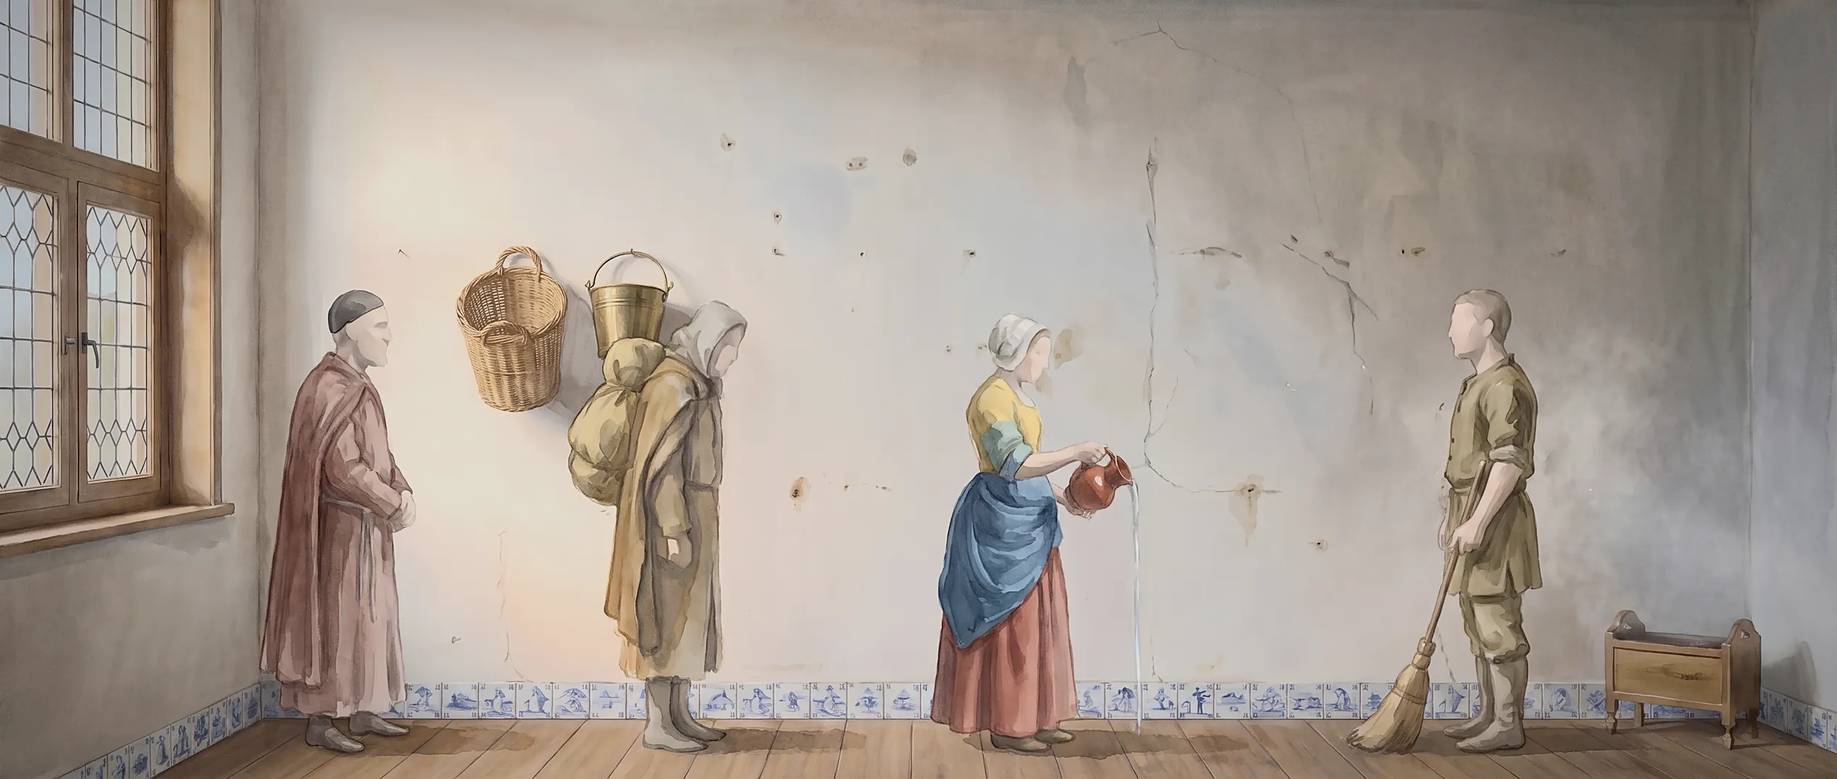
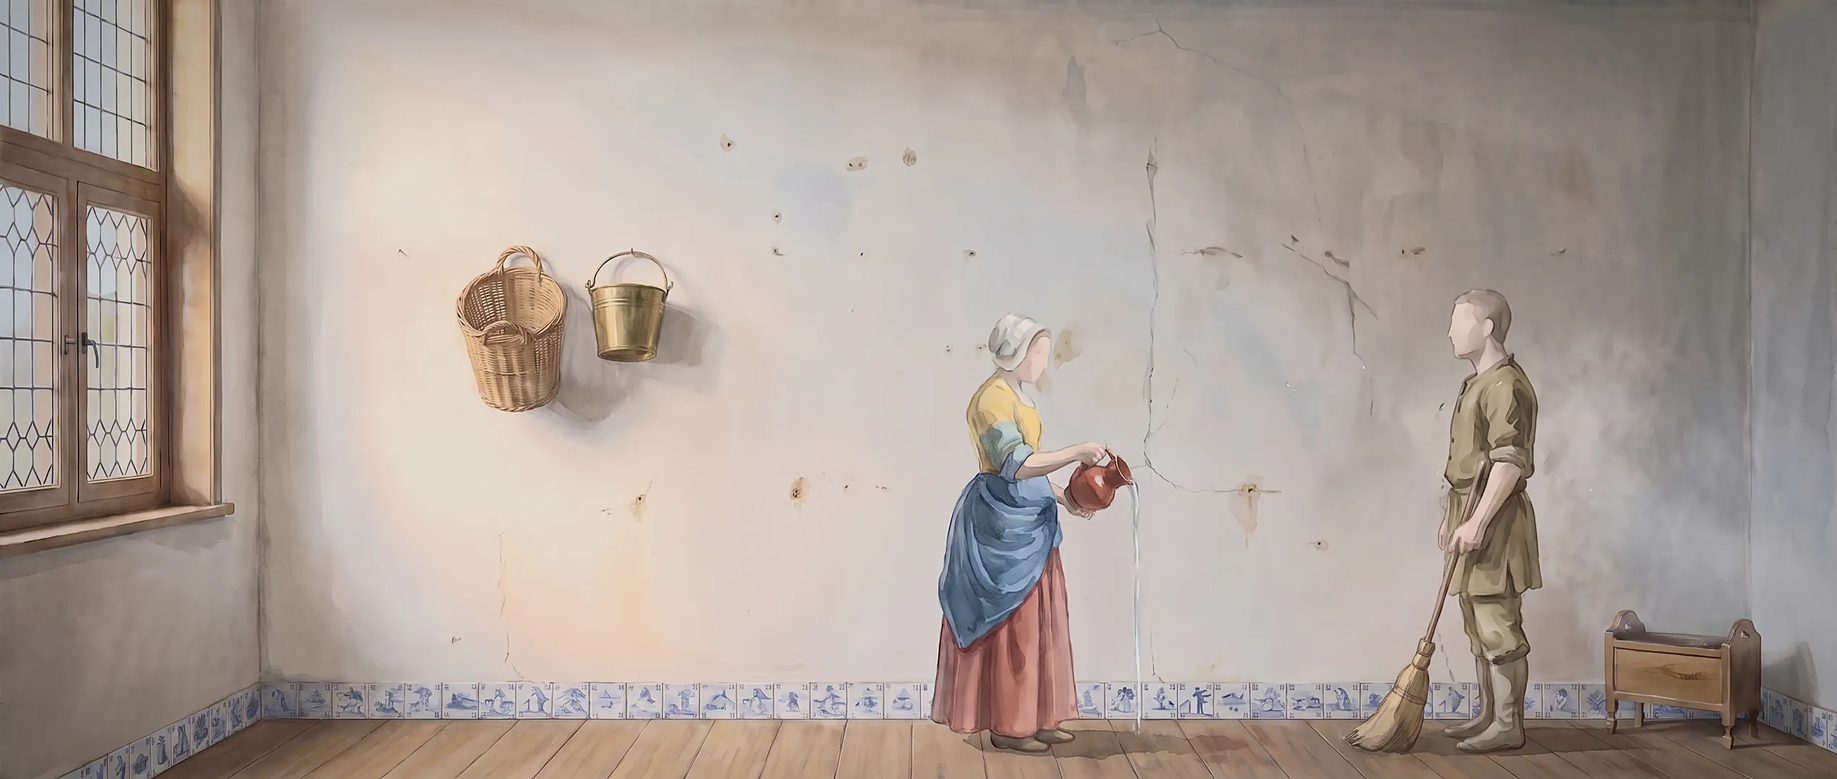
Build 264: the Interpreter's own figure; room 2 without painted visitors
Claude-Session: https://claude.ai/code/session_017HrTSHVVMcxEhGjUti4Zrs

diff --git a/rooms.js b/rooms.js
@@ -12,10 +12,9 @@
 // Every room is ONE still picture, painted by the image model in the game's watercolour after its master (concept
 // notes in CLAUDE.md, "THE INTERPRETER'S HOUSE IN THE GAME"), quietened in code: assets/room-door.webp, room1..7.webp
 // (room3.webp is cut narrower). The people who belong to a room are in its picture; Christian and the Interpreter are
-// the game's watercolour figures coloured in the house's palette (room3-christian.webp, room3-interpreter.webp, Good-will's
-// picture standing in for the Interpreter), placed in each room, breathing in code. Everything that moves is code:
-// light, dust, water, gold, bubbles, fire, the brave man, the dreamer's trembling. In room 2 the two visitors are in the
-// picture itself.
+// the game's watercolour figures coloured in the house's palette (room3-christian.webp; the Interpreter's own two pictures,
+// room-interpreter.webp standing and room-interpreter-say.webp explaining), placed in each room, breathing in code. Everything that moves is code:
+// light, dust, water, gold, bubbles, fire, the brave man, the dreamer's trembling. 
 //
 // Picture units: a picture's own pixels (P, 3168 x 1344 at full size) are laid at S units each; the camera's left edge is
 // cam.x units into the picture; each room's floor line (FY, in P) is laid at 440 so feet stand above the words; below
@@ -29,7 +28,7 @@ const RM = (() => {
   const darkOn = () => { try { return localStorage.getItem('pp-dark') === '1'; } catch (e) { return false; } };
 
   // the two visitors (sprites face LEFT as made; face 1 = turned to face right)
-  const VIS = { C: { n: 'room3-christian', ax: 150, g: 624, who: 'Christian', ph: 0 }, I: { n: 'room3-interpreter', ax: 90, g: 612, who: I, ph: 1.7 } };
+  const VIS = { C: { n: 'room3-christian', ax: 150, g: 624, who: 'Christian', ph: 0 }, I: { n: 'room-interpreter', ax: 86, g: 611, who: I, ph: 1.7, say: { n: 'room-interpreter-say', ax: 153, g: 611 } } };
   const BRAVE = { plain: { n: 'room5-brave', ax: 65, g: 519 }, armed: { n: 'room5-brave-armed', ax: 163, g: 519 } };
 
   let R = null, t = 0, ph = '', cam = { x: 0, to: 0 }, fade = 1, fadeTo = 0, after = null, toned = {}, startId = 'door', motes = [];
@@ -64,7 +63,7 @@ const RM = (() => {
     const cv2 = document.createElement('canvas'); cv2.width = im.width; cv2.height = im.height; const x = cv2.getContext('2d');
     x.drawImage(im, 0, 0); const d = x.getImageData(0, 0, im.width, im.height), p = d.data, sat = R && R.sat != null ? R.sat : .6;
     let m = 0, cnt = 0; for (let i = 0; i < p.length; i += 4) if (p[i + 3] > 128) { m += (p[i] + p[i + 1] + p[i + 2]) / 3; cnt++; } m /= cnt || 1;
-    for (let i = 0; i < p.length; i += 4) { const l = (p[i] + p[i + 1] + p[i + 2]) / 3; for (let k = 0; k < 3; k++) { let c = l + (p[i + k] - l) * sat; c = m + (c - m) * 1.4; p[i + k] = Math.max(0, Math.min(255, c * col[k] / 255)); } }
+    for (let i = 0; i < p.length; i += 4) { const l = (p[i] + p[i + 1] + p[i + 2]) / 3; for (let k = 0; k < 3; k++) { let c = l + (p[i + k] - l) * sat; c = m + (c - m) * 1.2; p[i + k] = Math.max(0, Math.min(255, c * col[k] / 255)); } }
     x.putImageData(d, 0, 0);
     return toned[key] = cv2;
   }
@@ -76,7 +75,14 @@ const RM = (() => {
     c.globalAlpha = a; c.save(); c.translate(fx, fy - bob); if (mv) c.transform(1, 0, -mv.sh * -face, 1, 0, 0); c.scale(-face, sy);
     c.drawImage(im, -meta.ax * sc, -meta.g * sc, im.width * sc, im.height * sc); c.restore(); c.globalAlpha = 1;
   }
-  const visitor = (c, key, x, face, k = R.k || 1, a = 1, up = 0) => { const m = VIS[key]; fig(c, m.n, m, x, R.FY - up, face, k, a, R.tone, m.who, m.ph); };
+  // the Interpreter lifts his open hand while he speaks (his second picture), and folds his hands again after
+  let sayK = 0;
+  const speaking = () => (SPK && SPK.who === I) || (G.state === 'dialog' && dWho.textContent === I);
+  const visitor = (c, key, x, face, k = R.k || 1, a = 1, up = 0) => {
+    const m = VIS[key];
+    if (m.say && pics[m.say.n]) { const q = smooth(0, 1, sayK); if (q < 1) fig(c, m.n, m, x, R.FY - up, face, k, a * (1 - q), R.tone, m.who, m.ph); if (q > 0) fig(c, m.say.n, m.say, x, R.FY - up, face, k, a * q, R.tone, m.who, m.ph); return; }
+    fig(c, m.n, m, x, R.FY - up, face, k, a, R.tone, m.who, m.ph);
+  };
   // Christian walking (leaving): the game's own walk pictures, dark against the night
   const WALKT = new Map();
   function walker(c, x, frame, k) {
@@ -147,7 +153,7 @@ const RM = (() => {
     },
     // 2 THE DUSTY PARLOUR (after Vermeer's Milkmaid): the broom raises the dust; the water lays it
     r2: {
-      pic: 'room2', FY: 1262, cam0: 140, tone: [255, 255, 255],
+      pic: 'room2', FY: 1262, cam0: 140, tone: [300, 288, 268],
       enter() { this.dust = []; this.haze = .22; this.wet = []; const r = rngR(5); for (let i = 0; i < 70; i++) this.dust.push({ x: 300 + r() * 2800, y: 300 + r() * 900, vx: 0, vy: 0, s: 2 + r() * 5, a: .5 + r() * .5, p: r() * 7 }); },
       run() { talk([[N, 'He led him into a very large parlour, full of dust, because it was never swept.'], [TIP, 'Touch the broom.', 'broom']], () => { ph = 'sweep'; t = 0; G.state = 'auto'; }); },
       act(sx, sy) {
@@ -176,6 +182,7 @@ const RM = (() => {
         for (const w of this.wet) { w.vy += .35; w.x += w.vx; w.y += w.vy; w.l++; }
         this.wet = this.wet.filter(w => w.y < 1260);
       },
+      people(c) { visitor(c, 'I', 560, 1); visitor(c, 'C', 1290, 1); },
       over(c) {
         c.fillStyle = css([170, 150, 120], this.haze * .75); c.fillRect(0, 0, VW, VH);
         for (const d of this.dust) { const a = Math.min(1, d.a * (.45 + this.haze)); const r = d.s * S * 3; const g = c.createRadialGradient(u(d.x), v(d.y), 0, u(d.x), v(d.y), r); g.addColorStop(0, css([206, 188, 160], a * .7)); g.addColorStop(1, css([196, 178, 150], 0)); c.fillStyle = g; c.fillRect(u(d.x) - r, v(d.y) - r, 2 * r, 2 * r); }
@@ -408,10 +415,10 @@ const RM = (() => {
     downs.clear(); keys.r = keys.push = false; toned = {};
     if (audio()) { AC.resume(); if (rainG) rainG.gain.setTargetAtTime(0, AC.currentTime, .8); }
     G.state = 'wait'; fade = 1; fadeTo = 0; after = null;
-    const need = [ROOMS[id].pic, VIS.C.n, VIS.I.n].concat(id === 'r3' ? ['room3-rags'] : []).concat(id === 'r5' ? [BRAVE.plain.n, BRAVE.armed.n] : []);
+    pic(VIS.I.say.n); const need = [ROOMS[id].pic, VIS.C.n, VIS.I.n].concat(id === 'r3' ? ['room3-rags'] : []).concat(id === 'r5' ? [BRAVE.plain.n, BRAVE.armed.n] : []);
     Promise.all(need.map(pic)).then(() => { enterRoom(id); setTimeout(() => { if (RM.on && G.state === 'wait' && R && R.id === id) { ph = 'run'; R.run(); } }, 1200); });
   }
-  function preload() { pic(ROOMS.door.pic); pic(VIS.C.n); pic(VIS.I.n); }
+  function preload() { pic(ROOMS.door.pic); pic(VIS.C.n); pic(VIS.I.n); pic(VIS.I.say.n); }
 
   function touch(sx, sy) { if (R && G.act && R.act) { const a = G.act; R.act(sx, sy); if (G.act === a && !G.ring) G.actT = Math.max(G.actT, 95); } }
   function key() { if (R && G.act && R.act) R.act(null, null); }
@@ -424,6 +431,7 @@ const RM = (() => {
     if (!R) return;
     cam.x += (cam.to - cam.x) * .03;
     for (const m of motes) { m.x += m.v; m.y += Math.sin(G.t / 90 + m.p) * .05; if (m.x > VW) m.x = 0; }
+    sayK = Math.max(0, Math.min(1, sayK + (speaking() ? .12 : -.08)));
     R.upd && R.upd();
   }
   function finish() {

diff --git a/index.html b/index.html
@@ -156,7 +156,7 @@ body.portrait #rot{display:block}
     <button class="btn" id="again">Walk again</button>
   </div>
   <button id="snd" aria-label="Sound on or off">♪</button>
-  <div id="build">build 263 · Nov 17 2026</div>
+  <div id="build">build 264 · Nov 17 2026</div>
 </div></div>
 <div id="rot">Turn your phone sideways for a bigger picture</div>
 <script>
@@ -2549,7 +2549,7 @@ document.getElementById('on2').onclick = () => SL.on ? go3() : HL.on ? goRoom('d
 </script>
 <script src="slough.js?v=259"></script>
 <script src="hill.js?v=262"></script>
-<script src="rooms.js?v=263"></script>
+<script src="rooms.js?v=264"></script>
 <script src="keepsakes.js?v=261"></script>
 <script src="editor.js?v=261"></script>
 </body>

diff --git a/story-lab.html b/story-lab.html
@@ -3,4 +3,4 @@
 <title>Pilgrim's Progress</title>
 <!-- The game moved to the main page in build 119. This page only sends old links (and Home Screen icons) on to it. -->
 <script>location.replace('./' + location.search + location.hash);</script>
-<p><a href="./">Pilgrim's Progress</a> <span id="build">build 263 · Nov 17 2026</span></p>
+<p><a href="./">Pilgrim's Progress</a> <span id="build">build 264 · Nov 17 2026</span></p>

diff --git a/HANDOFF.md b/HANDOFF.md
@@ -10,6 +10,8 @@ The game is `index.html` (Level 1 in the page, Level 2 in `slough.js`; no build 
 
 **Build 255 (small-tweaks chat): the gate's wall and door softer still, with less contrast. See `CLAUDE.md`, "Build 255". Nothing spent.**
 
+**Build 264 (room 3 chat, overnight): the Interpreter's own figure (two poses) and room 2 without painted visitors, about 26 cents.**
+
 **Build 263 (room 3 chat, overnight): the house checked by three critic agents (book, pictures, a child's touches) and fixed; its 50 lines recorded in five new designed voices (about 55 cents). Voice descriptions: Interpreter "An old, grave and very kind English man in his late sixties, a wise teacher. A warm, soft, unhurried voice of middle-low pitch, with quiet wonder in it, like a grandfather showing a child something precious and explaining what it means. An educated, old-fashioned English accent. Gentle and clear; never booming, never theatrical."; the man in the cage "An English man of about forty, worn out and hollow. A low, flat, sorrowful voice, speaking slowly with heavy sighs, as if he has given up hope. Quiet and sad rather than frightening. A plain English accent. Never theatrical."; the trembling man "A young English man in his twenties, just woken from a terrible dream, shaken and trembling. A hushed, breathless voice of middle pitch, speaking in awe and fear of what he has seen. A plain English accent. Never shouting, never theatrical."; the brave man "A stout, strong, brave English man in his thirties, a plain working man. A firm, warm, resolute voice of low-middle pitch, saying few words, steady and sure of himself. A plain English accent. Never shouting, never theatrical."; the voices from the palace "A clear, bright, warm young voice, gentle and joyful, almost singing, as if calling softly from high above to welcome someone home. Tender and glad. An English accent. Never loud, never theatrical."**
 
 **Build 261 (room 3 chat, overnight): the whole Interpreter's House is playable: contents line IV, the door, rooms 1 to 5, the darker rooms 6 and 7 behind "Shew the darker rooms", leaving. Six room pictures and the brave man painted (about 91 cents; the owner allowed up to $3 tonight). See `CLAUDE.md`, "THE INTERPRETER'S HOUSE IN THE GAME".**
@@ -221,7 +223,7 @@ Older handovers (builds 41 to 137, with the picture and video prompts used for H
 
 **Build 144: the title page is sized by the picture, so it fits an iPhone held upright (`CLAUDE.md`, Phones). Nothing spent.**
 
-**Spending since build 106 (the owner asked to keep it low): about $8.89.** (Build 261: six room pictures and the brave man, about 91 cents; build 263: the house's voices, about 55 cents. Tonight's budget from the owner: up to $3, so about $1.54 used.) After build 228: Good-will, one picture of him in two poses, standing and reaching (about 15 cents, the owner said yes; right first time but for the standing pose facing right, to be mirrored, and small drawn eyes to be washed out; `concept/goodwill-two-poses.png`, not yet in the game). Build 214: the two mire videos (about $1.12). Build 197: the kneel video (about 56 cents, right first time). Build 183: the mountain painted again at the image model's highest size (one picture, roughly 25 cents; the exact price of a 4K picture is not known). Build 177: the painted mountain for Level 3 (one picture, about 15 cents). The oak painted again, whole (about 15 cents, the owner asked). Build 164: the shorter script recorded (32 reworded and missing Level 3 lines, with retakes, about 45 cents). The painted oak for Level 3's opening (one picture, about 15 cents, the owner asked for it; right first time). Build 156: Evangelist's walk video (about 56 cents, right first time) and two picture tries at levelling his feet (about 19 cents, both failed; done in code instead). A second reference study, of distant fire and smoke (about 15 cents, the owner said yes; shown to the owner, not in the repo; its lessons are in `CLAUDE.md`, Level 3). One reference painting of the burning hill for the fire's design (about 15 cents, the owner said yes; shown to the owner, not in the game or the repo; what it teaches is in `CLAUDE.md`, Level 3). Build 143 (the owner said yes to Level 3's small costs): Wiseman's voice designed and 37 lines recorded (about 40 cents), three pictures of Wiseman (one cheap draft and two on the pro model, about 35 cents). Build 149: Wiseman's walk video (about 56 cents, right first time). Build 143 (the owner said yes to Level 3's small costs): Wiseman's voice designed and 37 lines recorded (about 40 cents), three pictures of Wiseman (one cheap draft and two on the pro model, about 35 cents).
+**Spending since build 106 (the owner asked to keep it low): about $9.15.** (Build 261: six room pictures and the brave man, about 91 cents; build 263: the house's voices, about 55 cents. build 264: the Interpreter and room 2, about 26 cents. Tonight's budget from the owner: up to $3, so about $1.80 used.) After build 228: Good-will, one picture of him in two poses, standing and reaching (about 15 cents, the owner said yes; right first time but for the standing pose facing right, to be mirrored, and small drawn eyes to be washed out; `concept/goodwill-two-poses.png`, not yet in the game). Build 214: the two mire videos (about $1.12). Build 197: the kneel video (about 56 cents, right first time). Build 183: the mountain painted again at the image model's highest size (one picture, roughly 25 cents; the exact price of a 4K picture is not known). Build 177: the painted mountain for Level 3 (one picture, about 15 cents). The oak painted again, whole (about 15 cents, the owner asked). Build 164: the shorter script recorded (32 reworded and missing Level 3 lines, with retakes, about 45 cents). The painted oak for Level 3's opening (one picture, about 15 cents, the owner asked for it; right first time). Build 156: Evangelist's walk video (about 56 cents, right first time) and two picture tries at levelling his feet (about 19 cents, both failed; done in code instead). A second reference study, of distant fire and smoke (about 15 cents, the owner said yes; shown to the owner, not in the repo; its lessons are in `CLAUDE.md`, Level 3). One reference painting of the burning hill for the fire's design (about 15 cents, the owner said yes; shown to the owner, not in the game or the repo; what it teaches is in `CLAUDE.md`, Level 3). Build 143 (the owner said yes to Level 3's small costs): Wiseman's voice designed and 37 lines recorded (about 40 cents), three pictures of Wiseman (one cheap draft and two on the pro model, about 35 cents). Build 149: Wiseman's walk video (about 56 cents, right first time). Build 143 (the owner said yes to Level 3's small costs): Wiseman's voice designed and 37 lines recorded (about 40 cents), three pictures of Wiseman (one cheap draft and two on the pro model, about 35 cents).
 
 **Build 143, Level 3's paid parts:** the owner: "Level 3 let's do it all except big costs - maybe make some art requests with google image but check with me before the big video request". Wiseman's voice was designed from: "A prosperous, smooth-spoken English gentleman in his fifties. A rich, warm, confident voice of middle pitch, polished and persuasive, friendly on the surface and a little condescending, like a man used to being listened to and sure he knows best. Unhurried and well-spoken, with a plain educated English accent. Pleasant, never villainous or sinister." (All lines recorded since build 164; build 197 checked: none missing.) Wiseman's painting: `gemini-3-pro-image`, references Obstinate's and Pliable's standing pictures, prompt: the same loose grey watercolour; a well-to-do gentleman in his fifties, comfortably stout, strict side-on profile facing left, one gloved hand on a cane, the other open in easy advice, no burden, no mud; a long full cloak of fine wool with a deep soft fur collar over a long smooth coat tied with a broad smooth cloth sash (not a rope), fine leggings, tall polished riding boots, a broad-brimmed hat with a round crown; nothing ragged, no lace, ruffs, buckles, buttons, jewellery; a plain wash face (it still drew a faint eye, softened in code). The first pro try made him look poor (rope belt, wrapped legs): say "expensive and well kept". The picture is not in the repo until the owner likes it. **Next, after the owner's yes:** cut it out (`tools/cutout.py`), a walk video from it (about 56 cents), Evangelist's walk (about 56 cents). Say the cost and wait for a yes before every paid call.
 

diff --git a/CLAUDE.md b/CLAUDE.md
@@ -35,7 +35,7 @@ A gentle side-scrolling story walk for kids ages 7 to 10, following Bunyan's *Th
 ## Working with the owner
 
 - **Repo `Twhidbey/pilgrims-progress`, branch `main`. Pushing `main` publishes the game** (GitHub Pages, https://twhidbey.github.io/pilgrims-progress/, 1 to 2 minutes). Commit and push after every change, then tell the owner it is live; a phone may show an old copy, so suggest `?v=N`. **Always give two links when a build is live (owner, build 187: "can you output [the editor link] by default and make note in notes"):** the game, `https://twhidbey.github.io/pilgrims-progress/?v=N`, and the editor link, `https://twhidbey.github.io/pilgrims-progress/?edit&v=N` (skip arrows, see Testing); add `&level=2` or `&level=3` when the change is in that level.
-- **Build stamp** (`id="build"`, bottom right): `build N · date` in `index.html` and `story-lab.html`. Bump N on **every** push that changes the game, so one number means one push. Keep the form `id="build">... build N` (the page's self-update reads it). **Currently build 263.** The two script tags at the end of `index.html` carry `?v=N` (`slough.js?v=`, `hill.js?v=`): set them to the build that last changed each file, so phones fetch the new copy. Several chats push at once: `git fetch` and rebase on `origin/main` just before pushing, and take the next number after whatever is there.
+- **Build stamp** (`id="build"`, bottom right): `build N · date` in `index.html` and `story-lab.html`. Bump N on **every** push that changes the game, so one number means one push. Keep the form `id="build">... build N` (the page's self-update reads it). **Currently build 264.** The two script tags at the end of `index.html` carry `?v=N` (`slough.js?v=`, `hill.js?v=`): set them to the build that last changed each file, so phones fetch the new copy. Several chats push at once: `git fetch` and rebase on `origin/main` just before pushing, and take the next number after whatever is there.
 - **SPEND AS LITTLE AS POSSIBLE (owner, build 106: "can you minimize spending - it's been pretty expensive for me last few days").** Video about 56 cents a try; a picture about 15 cents (`gemini-3-pro-image`); voice about a cent a line. **Before any paid call: say the cost and wait for a yes; keep the running total in `HANDOFF.md`.** Ways to save, in order: (1) do it in code first (breathing, sway, cloth and hair movement, small moves by warping a still, mirroring, tinting, reusing a figure); (2) build first and last frames from frames we already have; (3) draft pictures on `gemini-2.5-flash-image` (about a third of the price), the pro model only for the final; (4) show the owner a still before any video; (5) get two clips from one video (play backwards or back and forth); (6) write video prompts that pass the safety filter first time (no "sunk", "drowning", "thrashing", "desperate", "frightened"; say "thick sticky mud", "heaves", "cross and grumbling"); (7) a shorter video if the API offers one cheaper (not yet checked).
 - **Keep `CLAUDE.md` and `HANDOFF.md` updated after every change.** The repo is public: no names, emails or other personal details in notes, code or commits.
 - **Players:** kids 7 to 10, mostly on an iPhone. Gentle: no lives, no game over, read-aloud words, short simple sentences.
@@ -344,6 +344,8 @@ Owner: "is there a way to get pause and get menu that allows us to navigate away
 **Departures (Level 4 house, tell the owner):** every child's act is ours (knocking at the Interpreter's door is the book's: "knocked over and over"); the night at the door, the far fire and the house's look are ours; the candle lit by the child (in the book the Interpreter bids his man light it); the brave man's fight is shown short and without wounds ("cut his way through them all", the book's "giving and receiving many wounds" left out); the people in gold walk on the palace's battlements (the book: "upon the top of the palace"); the dreamer's light on the wall is the painting's (no hand, no writing); the bubbles (room 3) are the painting's. Lines are the agreed ones (see "THE ROOMS' WORDS, AGREED").
 
 **Build 263: three critics, then fixes; the house's voices.** Three agents went over build 261 (the book, the pictures at twice the size, and a child's real touches on an emulated iPhone). Changed: (1) **book:** room 6 gets the book's question and answer before the Interpreter's line, which was read as "pathetic" ("Is there no hope, but you must be kept in this iron cage?" / "No, none at all." / "Why, the Son of God is full of pity."; Bunyan: "the Son of the Blessed is very pitiful"), Christian's "Now let me go on my way." before "Stay ...", "I hardened my heart, so that I cannot repent.", and a second touch on the cage ("Touch the cage again.", the cage rattles) so no talk runs more than about five lines; room 5 is in the book's order ("He drew his sword, put a helmet on his head ..."), and the child calls out the welcome by touching the people in gold; room 4 drops Christian's "What does this mean?"; room 7 asks "Why does this man tremble so?" before the touch; "O eternity" is said "Oh, eternity, eternity!" (the check could not hear "O"). (2) **pictures:** the visitors are tinted pixel by pixel (`toneOf`: colour .6, contrast 1.4 about their own middle, then the room's colour; alpha untouched, so no pale rim), toned per room (night [100,94,112], room 1 [205,185,165] at 1.06 the size, room 4 [185,130,105], room 5 [225,205,180] with less colour); Christian's room picture is the standing frame 30 (frame 78 had a dark smudge; the straight robe front is his own outline in every standing frame); in room 3 the two stand in the arch, smaller and further back; the floor below a picture is its own last rows mirrored, darker; room 2's dust stays low and thins, the water is fine and pale; room 4's far side is fully dark until they go round, and they appear there; the brave man is darker, the sparks are a few warm streaks; room 7 is framed on the bed, the dream darkens the room but for the man and the light, the "man on the cloud" is a tall soft light, the thunder lights only the upper wall, two more painted marks painted out; the walking Christian at the end darker. (3) **play:** a touch that misses shows the ring at once (`touch()`); every ring comes back if it is gone (`>=` and `!G.ring`); a hold act's ring comes back when the finger lifts; leaving is a shorter, quicker walk; room 3's watching is shorter (about 12 s). **Voices:** five new designed voices (the Interpreter, the man in the cage, the trembling man, the brave man, the voices from the palace; descriptions in HANDOFF.md; IDs in `tools/make-voice.py`, which now reads `rooms.js` too), and all 50 of the house's lines recorded (about 55 cents with retakes). Times measured by the playtest before these fixes: about 4 min 45 s through the house without the darker rooms, 6 min 30 s with them.
+
+**Build 264: the Interpreter's own figure; room 2 without painted visitors (about 26 cents, the owner's budget for tonight).** One `gemini-3-pro-image` sheet (16:9, right first time): the Interpreter, an old grave kind man with a short grey beard, a dark skull-cap and a long red-brown gown with a cord, in two poses, standing with folded hands (`assets/room-interpreter.webp`) and an open hand raised as he explains (`room-interpreter-say.webp`); cut from the white paper, mirrored to face left like the other room figures, mapped onto the old red-brown range so he sits with Christian; he lifts his hand while he speaks (`sayK`, by his voice or his name on the words) and folds them again after. Good-will's picture no longer stands in (`room3-interpreter.webp` removed). Room 2's watercolour picture was given back to the image model and asked to remove only its painted Christian and Interpreter (`assets/room2.webp` remade; the damsel, the sweeper and the room unchanged), so the same two figures stand in every room (room 2: the Interpreter by the window at 560, Christian at 1290, `tone` above white to lift them in Vermeer's light). The sprite contrast is 1.2 (was 1.4).
 
 **Nothing is built** (but the house, above) The other chat designs the picture first; then a file `gate.js` (object like `SL`/`HL`), a title button 4, `go4()`, Level 3's end card "Go on".
 
